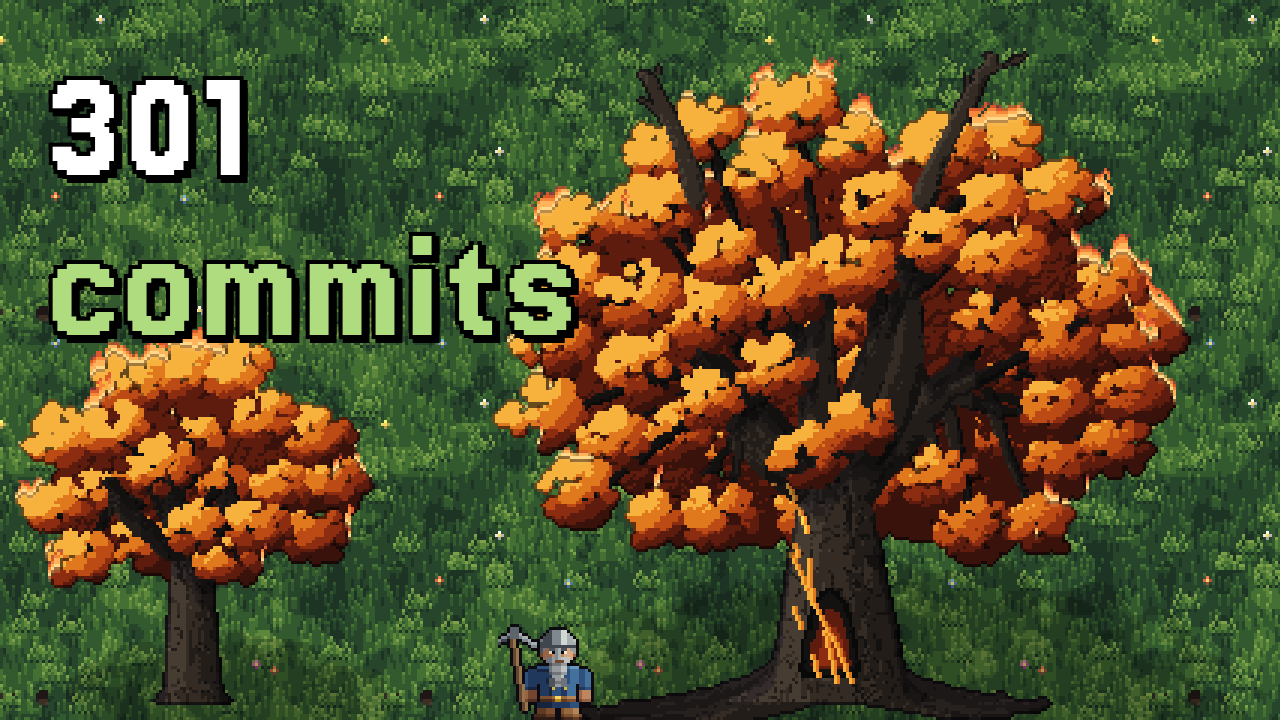
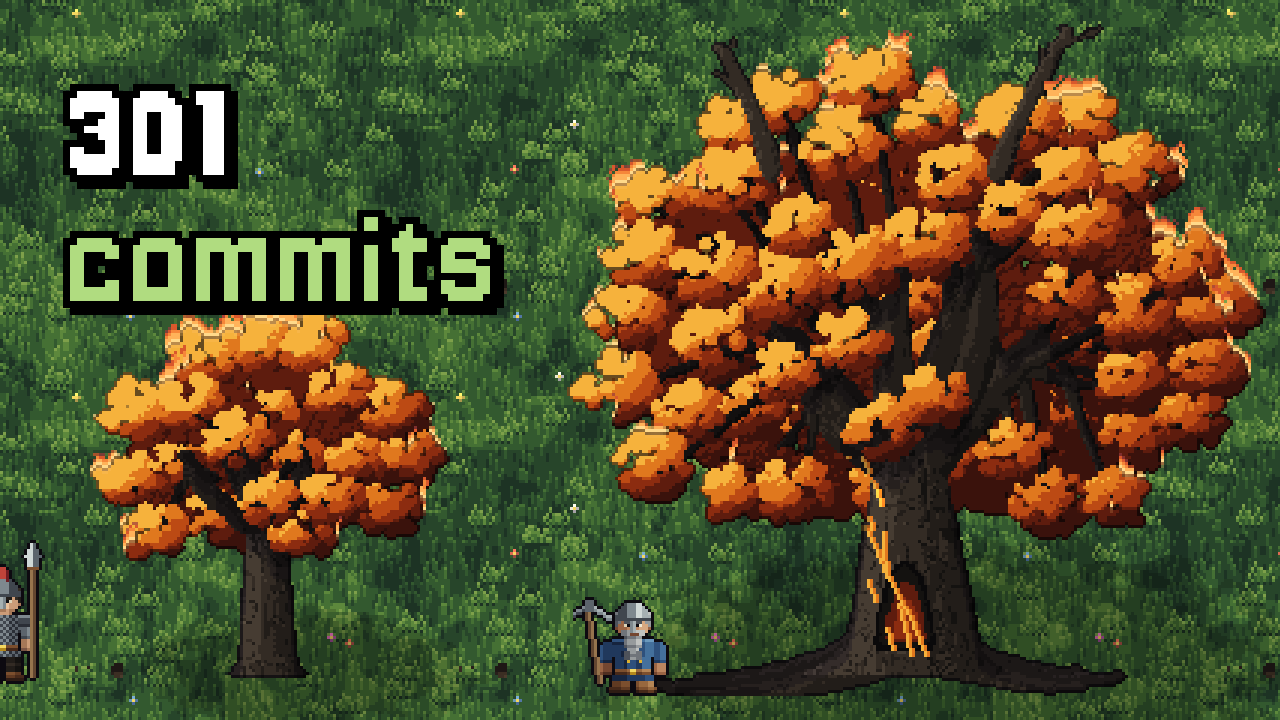
fix(mockups): devlog before shots from dev's glyph renderer, crisp thumbnail text
- Before shots (split thumbnail, 0:00, 0:55, Shorts) are a headless capture of dev's default glyph renderer by capture-glyph.mjs: dev-save fixture, a stone house placed with devSpawnBuildingAt, summer noon, HUD, event overlay and weather canvas hidden, 48 px tiles, used 1:1 because dev's 12 px glyphs miss a 4 px grid in 12% of blocks; tileset-archive sources are gone.
- Thumbnail text is drawn into canvases from the pixel fonts at master size, alpha thresholded, outlined and scaled by an integer.
- check-pixels.mjs verifies every overlay (text, arrow, seam) pixel-exact on screen with no semi-transparent source pixels, and that every art image is a known source.
- The 11:00 beat stacks the summer image over the winter placeholder, the Shorts before tag sits in the top half, the magic thumbnail is reframed so the dwarf is in frame, and every dashed box says what to record.

Claude-Session: fd651184-30eb-4ba8-8156-b7f2333e9b98
T3-Thread: thread:delegated-task:command%3Amcp%3A642574c5-c48d-4129-95f8-0240b33dcd81%3Adelegate-task%3A54f1a387-9600-4650-bbef-a1982770efbf

diff --git a/mockups/devlog-render/index.html b/mockups/devlog-render/index.html
@@ -41,7 +41,10 @@ h3 { margin: 0 0 6px; font-size: 16px; }
 .titles li { padding: 8px 0; border-top: 1px solid var(--edge); font-size: 14px; }
 .titles li b { color: var(--accent); font-weight: 700; margin-right: 6px; font-size: 12px; }
 
-.ba { display: grid; grid-template-columns: 1fr 1fr; gap: 6px; }
+.ba { display: grid; grid-template-columns: 1fr 1fr; gap: 6px; align-items: start; }
+.ba > * { min-width: 0; }
+.ba.one { grid-template-columns: 1fr; }
+.ba.one > .todo { aspect-ratio: auto; font-size: 14px; }
 .ba figure { margin: 0; position: relative; }
 .ba img { width: 100%; aspect-ratio: 16/10; object-fit: cover; border-radius: 6px; image-rendering: pixelated; display: block; }
 .ba figcaption { position: absolute; left: 6px; top: 6px; font: 15px/1 VT, monospace; background: rgba(20,14,8,.85); color: #f2e8cc; padding: 3px 6px; border-radius: 3px; }
@@ -75,7 +78,7 @@ h3 { margin: 0 0 6px; font-size: 16px; }
   text-shadow: 0 1cqw 0 #000, .8cqw .8cqw 0 #000, -.8cqw .8cqw 0 #000; }
 .phone .cap em { font-style: normal; color: #ffc468; }
 .phone .tag { position: absolute; left: 4cqw; font: 7cqw/1 VT, monospace; background: rgba(20,14,8,.85); color: #f2e8cc; padding: 1cqw 2cqw; }
-.phone .tag.a { top: 52cqh; } .phone .tag.b { bottom: 4cqw; color: #ffc468; }
+.phone .tag.a { bottom: calc(50% + 3cqw); } .phone .tag.b { bottom: 4cqw; color: #ffc468; }
 .phone .mid { position: absolute; left: 0; right: 0; top: calc(50% - .6cqw); height: 1.2cqw; background: #ffc468; }
 .shorts ol { margin: 6px 0 0; padding-left: 18px; font-size: 13px; color: var(--dim); }
 
@@ -100,7 +103,7 @@ a { color: var(--cool); }
   <p class="mnote">concept mockup · thumbnail view counts and durations are placeholders · competitor view counts are real, read from YouTube search on 2026-11-26</p>
 </header>
 <main>
-<p class="lead">The look overhaul on <code>test/look-overhaul</code>: 21–26 Nov 2026, 301 non-merge commits ahead of <code>dev</code>. Every frame below is a current mockup render (HUD, big-trees, tree-ground), except “before” shots, which use the old tileset still on <code>dev</code>; dashed boxes are shots still to record. Sources are regenerated by <code>capture.mjs</code>, thumbnails checked by <code>check-pixels.mjs</code>. Narration is a TTS voice in first person, and it has opinions.</p>
+<p class="lead">The look overhaul on <code>test/look-overhaul</code>: 21–26 Nov 2026, 301 non-merge commits ahead of <code>dev</code>. Every frame below is a current mockup render (HUD, big-trees, tree-ground), except “before” shots, which are headless captures of the glyph renderer that <code>dev</code> still draws by default (Bitlands BMP sheets, a house placed with dev commands on the dev-save colony, summer noon); dashed boxes are shots still to record. Sources are regenerated by <code>capture.mjs</code>, thumbnails checked by <code>check-pixels.mjs</code>. Narration is a TTS voice in first person, and it has opinions.</p>
 
 <h2 id="title">Title and thumbnail</h2>
 <div class="card">
@@ -114,9 +117,9 @@ a { color: var(--cool); }
 
 <div class="grid3" style="margin-top:16px">
   <div class="card">
-    <a href="thumb.html?t=split"><img class="tn" src="img/thumb-split.png" alt="Split thumbnail: old 16 px tileset left, current HUD-mockup scene right"></a>
+    <a href="thumb.html?t=split"><img class="tn" src="img/thumb-split.png" alt="Split thumbnail: dev glyph renderer left, current HUD-mockup scene right"></a>
     <h3 style="margin-top:10px">1 · Split seam <span class="badge rec">pick</span></h3>
-    <p class="lead">The same house, left in the old 16 px tileset (still on <code>dev</code>), right in the current look from the HUD mockup scene; a curved arrow carries the eye across the seam. Two words only. The before/after split is the most common winning devlog thumbnail; it reads at 168 px.</p>
+    <p class="lead">The same house, left in the glyph renderer <code>dev</code> still draws by default (single-colour Bitlands glyphs), right in the current look from the HUD mockup scene; a curved arrow carries the eye across the seam. Two words only. The before/after split is the most common winning devlog thumbnail; it reads at 168 px.</p>
   </div>
   <div class="card">
     <a href="thumb.html?t=night"><img class="tn" src="img/thumb-night.png" alt="Night thumbnail"></a>
@@ -140,14 +143,14 @@ a { color: var(--cool); }
 <p class="lead">Five acts. Every act ends on a reveal so the retention graph has a reason to stay flat.</p>
 <div class="timeline">
   <div class="beat act"><div class="bt">Act 1 · The confession (0:00–1:50)</div></div>
-  <div class="beat"><div class="tc">0:00</div><div class="ba"><figure><img src="img/grass-before.png" alt=""><figcaption>old 16 px</figcaption></figure><figure><img src="img/grass-after.png" alt=""><figcaption>now</figcaption></figure></div><div><div class="bt">Cold open: the wipe</div><div class="bd">Five-second slow wipe, before to after, no music until the seam crosses. Then the hook line (see script).</div></div></div>
-  <div class="beat"><div class="tc">0:20</div><div class="todo">record: glyph renderer on a pre-overhaul commit, same seed</div><div><div class="bt">What it looked like</div><div class="bd">The glyph map that shipped before 21 Nov; painted tiles were behind a switch. Checkout before <code>9086b016</code>, glyph mode on.</div></div></div>
-  <div class="beat"><div class="tc">0:55</div><div class="ba"><figure><img src="img/old32.png" alt=""><figcaption>old 32 px set</figcaption></figure><figure><img src="img/map-day.png" alt=""><figcaption>now</figcaption></figure></div><div><div class="bt">The rule I set myself</div><div class="bd">The mockups already looked right; the game didn't. Port the mockup, pixel for pixel, or don't ship it. Every feature in the next 10 minutes was held to a mockup.</div></div></div>
+  <div class="beat"><div class="tc">0:00</div><div class="ba"><figure><img src="img/glyph-before.png" alt=""><figcaption>dev glyphs</figcaption></figure><figure><img src="img/grass-after.png" alt=""><figcaption>now</figcaption></figure></div><div><div class="bt">Cold open: the wipe</div><div class="bd">Five-second slow wipe, before to after, no music until the seam crosses. Then the hook line (see script).</div></div></div>
+  <div class="beat"><div class="tc">0:20</div><div class="todo">needs recording: dev-branch glyph renderer, 20 s slow pan over the dev-save colony at noon, 32 px tiles, HUD hidden</div><div><div class="bt">What it looked like</div><div class="bd">The glyph map <code>dev</code> still draws by default: one colour per Bitlands glyph, no ground between them.</div></div></div>
+  <div class="beat"><div class="tc">0:55</div><div class="ba"><figure><img src="img/glyph-before.png" alt=""><figcaption>dev glyphs</figcaption></figure><figure><img src="img/map-day.png" alt=""><figcaption>now</figcaption></figure></div><div><div class="bt">The rule I set myself</div><div class="bd">The mockups already looked right; the game didn't. Port the mockup, pixel for pixel, or don't ship it. Every feature in the next 10 minutes was held to a mockup.</div></div></div>
 
   <div class="beat act"><div class="bt">Act 2 · Ground (1:50–4:10)</div></div>
-  <div class="beat"><div class="tc">1:50</div><div class="todo">needs recording: blend pass off/on, from a mockup</div><div><div class="bt">Killing the grid</div><div class="bd">Ground drawn through a blend pass so tiles bleed into each other (<code>9086b016</code>, default from <code>66dee6b0</code>). Hold the cut on a dirt/grass edge; the difference is subtle at full frame, obvious zoomed.</div></div></div>
-  <div class="beat"><div class="tc">2:40</div><div class="todo">needs recording: shore off/on, from a mockup</div><div><div class="bt">Water that isn't a blue square</div><div class="bd">Depth bands, foam, wet sand, rapids and reeds (<code>56ccd47c</code>), one baked 2048 px field, wind gusts and ice. Rivers as lake water pushed downstream (<code>7dbd9499</code>).</div></div></div>
-  <div class="beat"><div class="tc">3:30</div><div class="todo">record: mined mountain, stepped tiers + cutaway</div><div><div class="bt">Mountains, take two</div><div class="bd">Fractured peaks shipped, got reverted the same night (<code>de30abee</code>), came back as stepped tiers (<code>556f9def</code>). Opinionated beat: “the first version was clever and wrong.”</div></div></div>
+  <div class="beat"><div class="tc">1:50</div><div class="todo">needs recording: ground-blend mockup, a dirt/grass edge zoomed ×4, blend toggled off, on, off, on</div><div><div class="bt">Killing the grid</div><div class="bd">Ground drawn through a blend pass so tiles bleed into each other (<code>9086b016</code>, default from <code>66dee6b0</code>). Hold the cut on a dirt/grass edge; the difference is subtle at full frame, obvious zoomed.</div></div></div>
+  <div class="beat"><div class="tc">2:40</div><div class="todo">needs recording: water-shores mockup, one lake edge, shore pass off then on, then a 5 s gust over the water</div><div><div class="bt">Water that isn't a blue square</div><div class="bd">Depth bands, foam, wet sand, rapids and reeds (<code>56ccd47c</code>), one baked 2048 px field, wind gusts and ice. Rivers as lake water pushed downstream (<code>7dbd9499</code>).</div></div></div>
+  <div class="beat"><div class="tc">3:30</div><div class="todo">needs recording: mountain mockup, a mined face with stepped tiers, cutaway toggled as a pawn walks in</div><div><div class="bt">Mountains, take two</div><div class="bd">Fractured peaks shipped, got reverted the same night (<code>de30abee</code>), came back as stepped tiers (<code>556f9def</code>). Opinionated beat: “the first version was clever and wrong.”</div></div></div>
 
   <div class="beat act"><div class="bt">Act 3 · Light (4:10–6:30)</div></div>
   <div class="beat"><div class="tc">4:10</div><div class="ba"><figure><img src="img/map-day.png" alt=""><figcaption>13:00</figcaption></figure><figure><img src="img/map-night.png" alt=""><figcaption>23:30</figcaption></figure></div><div><div class="bt">Stepped light, not smooth light</div><div class="bd">Light pass with the mockup's stepped point light, grade and vignette (<code>a022698e</code>). Glow and drop shadows baked into a light atlas beside the colour atlas (<code>1e3b23bb</code>).</div></div></div>
@@ -158,9 +161,9 @@ a { color: var(--cool); }
   <div class="beat"><div class="tc">7:40</div><div class="ba"><figure><img src="img/forest.png" alt=""><figcaption>big trees</figcaption></figure><figure><img src="img/magic.png" alt=""><figcaption>elder</figcaption></figure></div><div><div class="bt">Big trees and one elder</div><div class="bd">Young/mature trees across seasons, cut away around pawns (<code>73930932</code>); trunk, boughs and leaves split in the wind; the magical elder that sheds flame through its leaves (<code>c8cacec8</code>).</div></div></div>
 
   <div class="beat act"><div class="bt">Act 5 · How it was made, and what it cost (9:00–11:40)</div></div>
-  <div class="beat"><div class="tc">9:00</div><div class="todo">screen: mockup page beside game, same scene</div><div><div class="bt">Mockup first, then port</div><div class="bd">Every look lived as a browser mockup (ground-blend, grass-layers, light-hex, big-trees, tree-ground) before a line went into the WebGL renderer. Agents did much of the porting, held to tests against the mockup.</div></div></div>
-  <div class="beat"><div class="tc">10:10</div><div class="todo">record: frame-time graph before/after the perf fixes</div><div><div class="bt">The frame-time bill</div><div class="bd">Shadow rescans, shader branches and per-tile tufts all cost frames; fixed by <code>53e344e7</code>, <code>d311fc48</code>, <code>dacae16a</code> and the <code>fix-frame-time-regression</code> branch. Put real numbers on screen or cut the beat.</div></div></div>
-  <div class="beat"><div class="tc">11:00</div><div class="ba"><figure><img src="img/map-summer.png" alt=""><figcaption>summer</figcaption></figure><div class="todo">needs recording: winter, once snow is finished</div></div><div><div class="bt">Outro + wishlist</div><div class="bd">Summer on the HUD mockup map; the winter half waits for finished snow. One ask, one line, end screen to Devlog #0.</div></div></div>
+  <div class="beat"><div class="tc">9:00</div><div class="todo">needs recording: screen capture, HUD mockup page left, game right, same scene, mouse panning both</div><div><div class="bt">Mockup first, then port</div><div class="bd">Every look lived as a browser mockup (ground-blend, grass-layers, light-hex, big-trees, tree-ground) before a line went into the WebGL renderer. Agents did much of the porting, held to tests against the mockup.</div></div></div>
+  <div class="beat"><div class="tc">10:10</div><div class="todo">needs recording: frame-time graph from the perf bench, before and after the fixes, same save and zoom</div><div><div class="bt">The frame-time bill</div><div class="bd">Shadow rescans, shader branches and per-tile tufts all cost frames; fixed by <code>53e344e7</code>, <code>d311fc48</code>, <code>dacae16a</code> and the <code>fix-frame-time-regression</code> branch. Put real numbers on screen or cut the beat.</div></div></div>
+  <div class="beat"><div class="tc">11:00</div><div class="ba one"><figure><img src="img/map-summer.png" alt=""><figcaption>summer</figcaption></figure><div class="todo">needs recording: the same HUD mockup map in winter, once the new snow is finished</div></div><div><div class="bt">Outro + wishlist</div><div class="bd">Summer on the HUD mockup map; the winter half waits for finished snow. One ask, one line, end screen to Devlog #0.</div></div></div>
 </div>
 
 <h2 id="script">TTS script · hook to 2:00</h2>
@@ -179,7 +182,7 @@ a { color: var(--cool); }
 <h2 id="shorts">Shorts · 9:16</h2>
 <div class="shorts">
   <div class="card">
-    <div class="phone"><img class="top" src="img/grass-before.png" alt=""><img class="bot" src="img/grass-after.png" alt=""><div class="mid"></div><div class="cap">same map.<br><em>5 days.</em></div><span class="tag a">before</span><span class="tag b">now</span></div>
+    <div class="phone"><img class="top" src="img/glyph-before.png" alt=""><img class="bot" src="img/grass-after.png" alt=""><div class="mid"></div><div class="cap">same map.<br><em>5 days.</em></div><span class="tag a">before</span><span class="tag b">now</span></div>
     <h3>“Same map. 5 days.” · 25 s</h3>
     <ol><li>0–2 s: the split, caption only, no voice.</li><li>Wipe top to bottom across four pairs: grass, shore, light, trees.</li><li>VO last 4 s: “Full breakdown on the channel.”</li></ol>
   </div>

diff --git a/mockups/devlog-render/thumb.html b/mockups/devlog-render/thumb.html
@@ -12,36 +12,31 @@ html, body { margin: 0; background: #000; }
 .clip { position: absolute; top: 0; height: 720px; overflow: hidden; }
 .art { position: absolute; image-rendering: pixelated; transform-origin: 0 0; max-width: none; }
 .seam { position: absolute; top: 0; height: 720px; width: 8px; left: 636px; background: #ffc468; }
-.t { position: absolute; font: 128px/1 Jersey20, sans-serif; color: #fff; letter-spacing: 4px;
-  text-shadow: 8px 8px 0 #000, -4px 4px 0 #000, 4px -4px 0 #000, -4px -4px 0 #000, 8px 0 0 #000, 0 8px 0 #000; }
-.t em { font-style: normal; color: #ffc468; }
-.t i { font-style: normal; color: #b0dc80; }
-.t.bl { font: 200px/.82 Blackletter, serif; letter-spacing: 0; }
 .ov { position: absolute; image-rendering: pixelated; }
 </style>
 </head>
 <body>
 <section class="th" id="split">
-  <div class="clip" style="left:0;width:640px"><img class="art" src="src/old16.png" style="left:-1120px;top:-480px;width:3840px;height:2176px" alt=""></div>
+  <div class="clip" style="left:0;width:640px"><img class="art" src="src/old-glyph.png" style="left:-304px;top:-48px;width:1280px;height:1088px" alt=""></div>
   <div class="clip" style="left:640px;width:640px"><img class="art" src="src/new-day.png" style="left:-1120px;top:-480px;width:3840px;height:2176px" alt=""></div>
   <div class="seam"></div>
-  <div class="t" style="left:40px;top:32px">UGLY</div>
-  <div class="t" style="right:40px;top:32px"><em>5 DAYS</em></div>
+  <canvas class="ov txt" data-font="Jersey20" data-size="40" data-k="3" data-x="40" data-y="32" data-lines='[[["UGLY","#ffffff"]]]'></canvas>
+  <canvas class="ov txt" data-font="Jersey20" data-size="40" data-k="3" data-right="40" data-y="32" data-lines='[[["5 DAYS","#ffc468"]]]'></canvas>
   <canvas class="ov arrow" width="56" height="26" style="left:416px;top:488px;width:448px;height:208px"></canvas>
 </section>
 <section class="th" id="night">
   <div class="clip" style="left:0;width:1280px"><img class="art" src="src/new-night.png" style="left:-1040px;top:-440px;width:3840px;height:2176px" alt=""></div>
-  <div class="t bl" style="left:48px;bottom:56px">Painted<br><em>light</em></div>
+  <canvas class="ov txt" data-font="Blackletter" data-size="24" data-k="8" data-x="48" data-bottom="48" data-lh="20" data-lines='[[["Painted","#ffffff"]],[["light","#ffc468"]]]'></canvas>
 </section>
 <section class="th" id="magic">
-  <div class="clip" style="left:0;width:1280px"><img class="art" src="src/magic.png" style="left:-825px;top:-1209px;width:4764px;height:2964px" alt=""></div>
-  <div class="t" style="left:48px;top:48px;font-size:160px">301<br><i>commits</i></div>
+  <div class="clip" style="left:0;width:1280px"><img class="art" src="src/magic.png" style="left:-750px;top:-1236px;width:4764px;height:2964px" alt=""></div>
+  <canvas class="ov txt" data-font="Jersey20" data-size="20" data-k="7" data-x="49" data-y="49" data-lh="18" data-lines='[[["301","#ffffff"]],[["commits","#b0dc80"]]]'></canvas>
 </section>
 <script>
 const id = new URLSearchParams(location.search).get('t') || 'split';
 document.getElementById(id).classList.add('on');
 for (const c of document.querySelectorAll('canvas.arrow')) {
-  const g = c.getContext('2d'), W = c.width, H = c.height, dot = (x, y, col) => { g.fillStyle = col; g.fillRect(x, y, 1, 1); };
+  const g = c.getContext('2d'), dot = (x, y, col) => { g.fillStyle = col; g.fillRect(x, y, 1, 1); };
   const pts = [];
   for (let s = 0; s <= 400; s++) { const u = s / 400, x = 4 + u * 44, y = 20 - Math.sin(u * Math.PI) * 15; pts.push([Math.round(x), Math.round(y)]); }
   const head = [[49, 15], [50, 16], [51, 17], [52, 18], [53, 19], [52, 20], [51, 21], [50, 22], [49, 23], [48, 18], [48, 19], [48, 20], [48, 21], [48, 22], [49, 17], [49, 18], [49, 19], [49, 20], [49, 21], [49, 22], [50, 17], [50, 18], [50, 19], [50, 20], [50, 21], [51, 18], [51, 19], [51, 20], [52, 19]];
@@ -49,6 +44,50 @@ for (const c of document.querySelectorAll('canvas.arrow')) {
   for (const [x, y] of body) for (const [dx, dy] of [[-1, 0], [1, 0], [0, -1], [0, 1], [-1, -1], [1, 1], [1, -1], [-1, 1], [0, 2], [1, 2], [-1, 2]]) dot(x + dx, y + dy, '#000');
   for (const [x, y] of body) { dot(x, y, '#ffc468'); dot(x, y + 1, '#ffc468'); }
 }
+const hex = h => [1, 3, 5].map(i => parseInt(h.slice(i, i + 2), 16));
+async function text(c) {
+  const d = c.dataset, size = +d.size, k = +d.k, lh = +(d.lh || size), lines = JSON.parse(d.lines);
+  await document.fonts.load(`${size}px ${d.font}`);
+  const m = document.createElement('canvas').getContext('2d');
+  m.font = `${size}px ${d.font}`;
+  const widths = lines.map(l => l.reduce((w, [t]) => w + Math.ceil(m.measureText(t).width), 0));
+  const pad = 2, W = Math.max(...widths) + pad * 2 + 1, H = lines.length * lh + Math.ceil(size * .4) + pad * 2 + 1;
+  const ink = new Int32Array(W * H).fill(-1), cols = [];
+  lines.forEach((l, li) => {
+    let x = pad;
+    for (const [t, col] of l) {
+      const s = document.createElement('canvas'); s.width = W; s.height = H;
+      const g = s.getContext('2d'); g.font = `${size}px ${d.font}`; g.textBaseline = 'top'; g.fillStyle = '#fff';
+      g.fillText(t, x, pad + li * lh);
+      const a = g.getImageData(0, 0, W, H).data, ci = cols.push(hex(col)) - 1;
+      for (let i = 0; i < W * H; i++) if (a[i * 4 + 3] >= 128) ink[i] = ci;
+      x += Math.ceil(m.measureText(t).width);
+    }
+  });
+  const edge = new Uint8Array(W * H);
+  for (let y = 0; y < H; y++) for (let x = 0; x < W; x++) {
+    if (ink[y * W + x] >= 0) continue;
+    for (const [dx, dy] of [[-1, 0], [1, 0], [0, -1], [0, 1], [-1, -1], [1, -1], [-1, 1], [1, 1]]) {
+      const nx = x - dx, ny = y - dy;
+      if (nx >= 0 && ny >= 0 && nx < W && ny < H && ink[ny * W + nx] >= 0) { edge[y * W + x] = 1; break; }
+    }
+  }
+  const shade = new Uint8Array(W * H);
+  for (let y = 1; y < H; y++) for (let x = 1; x < W; x++) if (ink[y * W + x] < 0 && !edge[y * W + x] && (edge[(y - 1) * W + x - 1] || ink[(y - 1) * W + x - 1] >= 0)) shade[y * W + x] = 1;
+  c.width = W; c.height = H;
+  const g = c.getContext('2d'), img = g.createImageData(W, H);
+  for (let i = 0; i < W * H; i++) {
+    const rgb = ink[i] >= 0 ? cols[ink[i]] : edge[i] || shade[i] ? [0, 0, 0] : null;
+    if (rgb) img.data.set([...rgb, 255], i * 4);
+  }
+  g.putImageData(img, 0, 0);
+  Object.assign(c.style, { width: W * k + 'px', height: H * k + 'px' });
+  const T = 720, L = 1280;
+  c.style.left = (d.right ? L - +d.right - W * k : +d.x) - ((d.right ? L - +d.right - W * k : +d.x) % k) + 'px';
+  const top = d.bottom ? T - +d.bottom - H * k : +d.y;
+  c.style.top = top - (top % k) + 'px';
+}
+window.thumbReady = Promise.all([...document.querySelectorAll('.th.on canvas.txt')].map(text)).then(() => document.body.dataset.ready = '1');
 </script>
 </body>
 </html>
